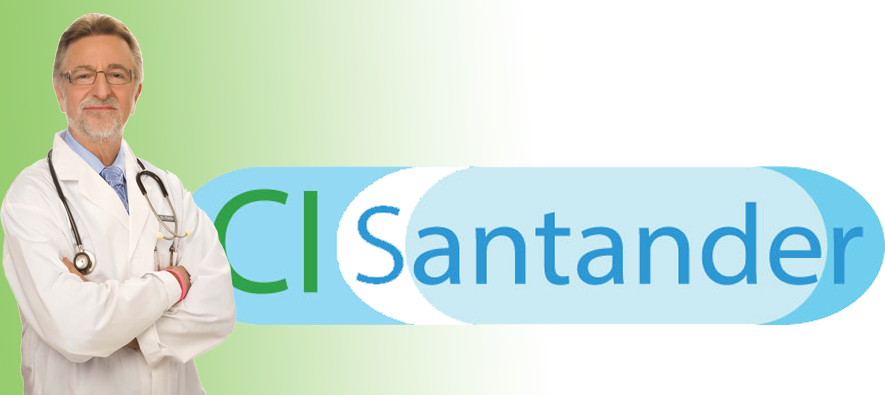
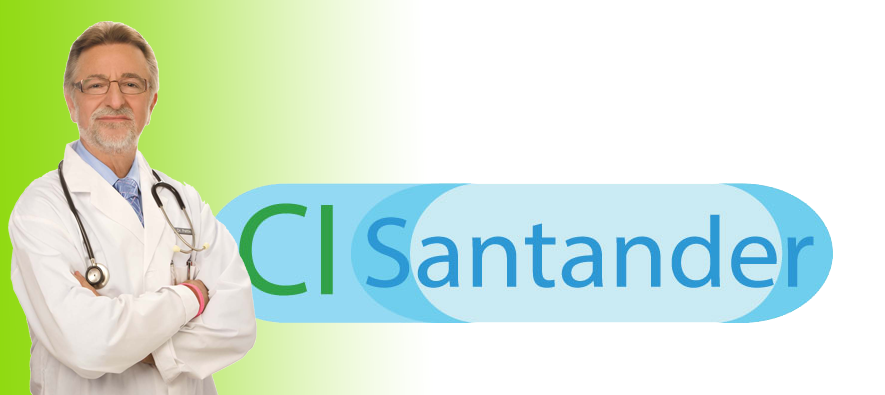
diferentes updates en varias paginas y css

diff --git a/prototipo/contactenos.html b/prototipo/contactenos.html
@@ -1,0 +1,87 @@
+<!DOCTYPE HTML>
+<html xmlns="http://www.w3.org/1999/xhtml">
+<head>
+<meta http-equiv="Content-Type" content="text/html; charset=utf-8" />
+<title>Citas Santander - Ingresar Horario</title>
+<link rel="stylesheet" href="mountain/styles.css" type="text/css" />
+
+<script type="text/javascript" src="mountain/js/jquery-1.3.2.min.js"></script>
+<script type="text/javascript" src="mountain/js/jquery.cycle.all.min.js"></script>
+<script type="text/javascript" src="mountain/js/superfish.js"></script>
+<script type="text/javascript" src="mountain/js/script.js"></script>
+</head>
+    
+
+<body>
+
+<div id="container">
+
+<div id="container-inner">
+
+	<div id="header">
+        <div style="float:left">
+            <h1><a href="inicio.html" style="margin:0px"><img src="SWCIsantander.jpg" alt="citas santander" style="width:300px"></a></h1>
+            <p style="float:left" id="slogan">Tus citas... Simple</p>
+        </div>
+
+        
+        
+        <div class="clear"></div>
+        
+    </div><!-- end header -->
+    
+    <div id="nav" style="float:left">
+    	<ul>
+        	<li><a href="home.html">Inicio</a></li>
+            <li><a href="#">Servicios</a></li>
+            <li><a href="#">Doctores</a></li>
+            <li><a href="contactenos.html">Contactanos</a></li>
+            <li><a href="#">kissis</a></li>
+        </ul>
+    </div><!-- end nav -->
+
+<br>
+    <div id="main">
+		<div class="contenido">
+			<h2>Contáctanos</h2>
+            <form class="nueva" id="signup-form" action="#">
+                <div id="formulario">
+				    <a class="infor">Email</a><input type="email" name="email" id="email" placeholder="Identificación" style="width:350px"/>
+        
+                    
+                    <a class="infor">Mensaje</a><textarea style="height:200px;width:370px;resize:none;overflow:scroll" name="email" id="email"></textarea>
+                    <br>
+                    <br>
+				    <!---<input type="submit" value="Iniciar Sesión" href="mountain/index.html">--->
+                    <!---<input type="submit" value="Registrarse" />--->
+                    <a class="button" href="perfilPaciente.html">Iniciar Sesion</a>
+                    <a class="button" href="http://www.google.com">Registrarse</a>
+                    
+                </div>
+                <div id="info_home">
+                    <p style="float:left;padding-top:50px">
+                        Queremos conocer tu opinión. Escribe tu mensaje y tu email para poder responderte con la mayor brevedad posible.
+                    
+                    </p>
+                </div>
+			</form>
+
+        </div><!-- end content -->
+        
+        
+        
+        
+    	<div class="clear"></div>
+        
+    </div><!-- end main -->
+    
+    </div><!-- end container-inner -->
+    
+</div><!-- end container -->
+
+<div id="footer">
+	<p>&copy; YourSite 2011. Design by <a href="http://www.electrictowelrail.org.uk" target="_blank">Electric Towel Rail</a>  | <a href="http://validator.w3.org/check/referer" title="This page validates as XHTML 1.0 Transitional"><abbr title="eXtensible HyperText Markup Language">XHTML</abbr></a> | <a href="http://jigsaw.w3.org/css-validator/check/referer" title="This page validates as CSS"><abbr title="Cascading Style Sheets">CSS</abbr></a></p>
+</div><!-- end footer -->
+
+</body>
+</html>

diff --git a/prototipo/home.html b/prototipo/home.html
@@ -1,0 +1,81 @@
+<!DOCTYPE HTML>
+<html xmlns="http://www.w3.org/1999/xhtml">
+<head>
+<meta http-equiv="Content-Type" content="text/html; charset=utf-8" />
+<title>Citas Santander - Ingresar Horario</title>
+<link rel="stylesheet" href="mountain/styles.css" type="text/css" />
+
+<script type="text/javascript" src="mountain/js/jquery-1.3.2.min.js"></script>
+<script type="text/javascript" src="mountain/js/jquery.cycle.all.min.js"></script>
+<script type="text/javascript" src="mountain/js/superfish.js"></script>
+<script type="text/javascript" src="mountain/js/script.js"></script>
+</head>
+    
+
+<body>
+
+<div id="container">
+
+<div id="container-inner">
+
+	<div id="header">
+        <div style="float:left">
+            <h1><a href="inicio.html" style="margin:0px"><img src="SWCIsantander.jpg" alt="citas santander" style="width:300px"></a></h1>
+            <p style="float:left" id="slogan">Tus citas... Simple</p>
+        </div>
+
+        
+        
+        <div class="clear"></div>
+        
+    </div><!-- end header -->
+    
+    <div id="nav" style="float:left">
+    	<ul>
+        	<li><a href="home.html">Inicio</a></li>
+            <li><a href="#">Servicios</a></li>
+            <li><a href="#">Doctores</a></li>
+            <li><a href="contactenos.html">Contactanos</a></li>
+            <li><a href="#">kissis</a></li>
+        </ul>
+    </div><!-- end nav -->
+    
+
+      <!-- start slideshow -->
+
+        <img src="img/homePhoto.png" alt="image" height="300" border="0" />
+    <!--/slider -->
+    
+
+    <div id="main">
+		<div class="contenido">
+			<h2 class="textoBorde">Sistema de Citas Santander</h2>
+            <form class="nueva" id="signup-form" action="#">
+                
+                <div id="info_home">
+                    <p>
+                        El sistema de citas Santander nace de la necesidad de manejar la congestión que se creaba cuando se necesitaba agendar una cita en nuestro hospital. Con este sistema, hemos podido mejorar el rendimiento de nuestro hospital, maximizando su capacidad y su calidad de atención. Esperamos que tengas una buena experiencia utilizando nuestros servicios.
+                    
+                    </p>
+                </div>
+			</form>
+
+        </div><!-- end content -->
+        
+        
+        
+        
+    	<div class="clear"></div>
+        
+    </div><!-- end main -->
+    
+    </div><!-- end container-inner -->
+    
+</div><!-- end container -->
+
+<div id="footer">
+	<p>&copy; YourSite 2011. Design by <a href="http://www.electrictowelrail.org.uk" target="_blank">Electric Towel Rail</a>  | <a href="http://validator.w3.org/check/referer" title="This page validates as XHTML 1.0 Transitional"><abbr title="eXtensible HyperText Markup Language">XHTML</abbr></a> | <a href="http://jigsaw.w3.org/css-validator/check/referer" title="This page validates as CSS"><abbr title="Cascading Style Sheets">CSS</abbr></a></p>
+</div><!-- end footer -->
+
+</body>
+</html>

diff --git a/prototipo/mountain/styles.css b/prototipo/mountain/styles.css
@@ -160,12 +160,11 @@ li ol, li ul {
 	color: #fff;
 }
 
-#slogan
+p#slogan
 {
-    font-color:#555;
-    padding-left: 1000px;
-    
-        
+    color:#529d4f;
+    padding-left: 50px;
+    font-size: 20px;    
 }
 
 
@@ -889,6 +888,7 @@ div#formulario{
 
 div.contenido
 {
+    padding-top: 100px;
     width: 100%
 }
 
@@ -903,3 +903,11 @@ div#info_home{
     text-align: justify;
     padding: 20px;
 }
+
+.textoBorde{
+    color:#90DA11;
+    text-shadow: 0px 0 black, 0 1px rgba(85, 85, 85, 0.47), 1px 0 rgba(85, 85, 85, 0.47), 0 0px black;
+}
+
+input{
+    text-align:

diff --git a/prototipo/inicio.html b/prototipo/inicio.html
@@ -32,10 +32,10 @@
     
     <div id="nav" style="float:left">
     	<ul>
-        	<li><a href="#">Inicio</a></li>
+        	<li><a href="home.html">Inicio</a></li>
             <li><a href="#">Servicios</a></li>
             <li><a href="#">Doctores</a></li>
-            <li><a href="#">Contactanos</a></li>
+            <li><a href="contactenos.html">Contactanos</a></li>
             <li><a href="#">kissis</a></li>
         </ul>
     </div><!-- end nav -->
